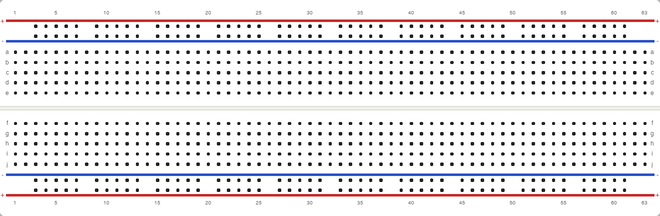
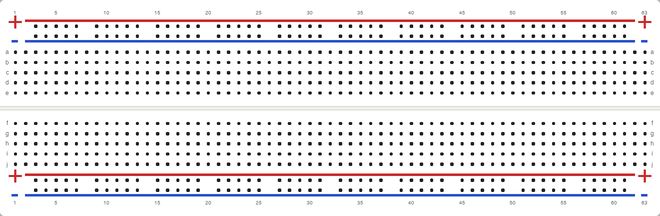
Shorten rail stripes, enlarge/reposition +/- symbols, rotate 90°
Stripes now span col 2.5–61.5. +/- symbols aligned to cols 1/63,
rotated 90°, with separate sizing (+ smaller, - larger).

diff --git a/generator/board.py b/generator/board.py
@@ -91,8 +91,8 @@ def _draw_rail_stripes(draw: ImageDraw.ImageDraw, grid: BreadboardGrid) -> None:
     neg_color = tuple(spec['power_rails']['negative_stripe_color'])
 
     half_pitch = grid.pitch_px / 2
-    stripe_x_start = grid.col_x(2) - half_pitch
-    stripe_x_end = grid.col_x(62) + half_pitch
+    stripe_x_start = (grid.col_x(2) + grid.col_x(3)) / 2 - half_pitch
+    stripe_x_end = (grid.col_x(61) + grid.col_x(62)) / 2 + half_pitch
 
     # Top rail block: p1+ (outer row) and p1- (inner row)
     y_p1_plus = grid.rail_y('p1+')
@@ -205,29 +205,47 @@ def _draw_labels(draw: ImageDraw.ImageDraw, grid: BreadboardGrid) -> None:
         draw.text((x, y_bottom), str(c), fill=label_color, font=col_font, anchor='mm')
 
 
+def _paste_rotated_text(
+    img: Image.Image, text: str, font: ImageFont.FreeTypeFont,
+    color: tuple[int, ...], cx: float, cy: float, angle: float,
+) -> None:
+    """Render text into a temporary image, rotate, and paste centered at (cx, cy)."""
+    # Measure text size
+    bbox = font.getbbox(text)
+    tw, th = bbox[2] - bbox[0], bbox[3] - bbox[1]
+    pad = 4
+    tmp = Image.new('RGBA', (tw + pad * 2, th + pad * 2), (0, 0, 0, 0))
+    tmp_draw = ImageDraw.Draw(tmp)
+    tmp_draw.text((pad - bbox[0], pad - bbox[1]), text, fill=color + (255,), font=font)
+    tmp = tmp.rotate(angle, expand=True, resample=Image.BICUBIC)
+    px = int(round(cx - tmp.width / 2))
+    py = int(round(cy - tmp.height / 2))
+    img.paste(tmp, (px, py), tmp)
+
+
 def _draw_rail_symbols(draw: ImageDraw.ImageDraw, grid: BreadboardGrid) -> None:
-    """Draw red + and blue - symbols at both ends of each stripe line."""
+    """Draw red + and blue - symbols at both ends of each stripe line, rotated 90°."""
     spec = grid.spec
     pos_color = tuple(spec['power_rails']['positive_stripe_color'])
     neg_color = tuple(spec['power_rails']['negative_stripe_color'])
     font_size = spec['terminal_strip']['label_font_size_mm'] * grid.ppmm
-    font = _get_font(font_size * 1.1)
+    plus_font = _get_font(font_size * 3.52 * 0.8)   # +: 20% smaller
+    minus_font = _get_font(font_size * 3.52 * 1.2)   # -: 20% larger
 
-    w, _ = grid.board_size()
-    margin = grid.ppmm * 1.5
-    x_left = margin * 0.4
-    x_right = w - margin * 0.4
+    img = draw._image  # get the underlying image to paste rotated glyphs
+    x_left = grid.col_x(1)
+    x_right = grid.col_x(63)
 
     half_pitch = grid.pitch_px / 2
 
     # Must match stripe y-positions from _draw_rail_stripes
     symbols = [
-        (grid.rail_y('p1+') - half_pitch, '+', pos_color),
-        (grid.rail_y('p1-') + half_pitch, '-', neg_color),
-        (grid.rail_y('p2-') - half_pitch, '+', pos_color),
-        (grid.rail_y('p2+') + half_pitch, '-', neg_color),
+        (grid.rail_y('p1+') - half_pitch, '+', pos_color, plus_font),
+        (grid.rail_y('p1-') + half_pitch, '-', neg_color, minus_font),
+        (grid.rail_y('p2-') - half_pitch, '+', pos_color, plus_font),
+        (grid.rail_y('p2+') + half_pitch, '-', neg_color, minus_font),
     ]
 
-    for y, symbol, color in symbols:
-        draw.text((x_left, y), symbol, fill=color, font=font, anchor='mm')
-        draw.text((x_right, y), symbol, fill=color, font=font, anchor='mm')
+    for y, symbol, color, font in symbols:
+        for x in (x_left, x_right):
+            _paste_rotated_text(img, symbol, font, color, x, y, 90)
